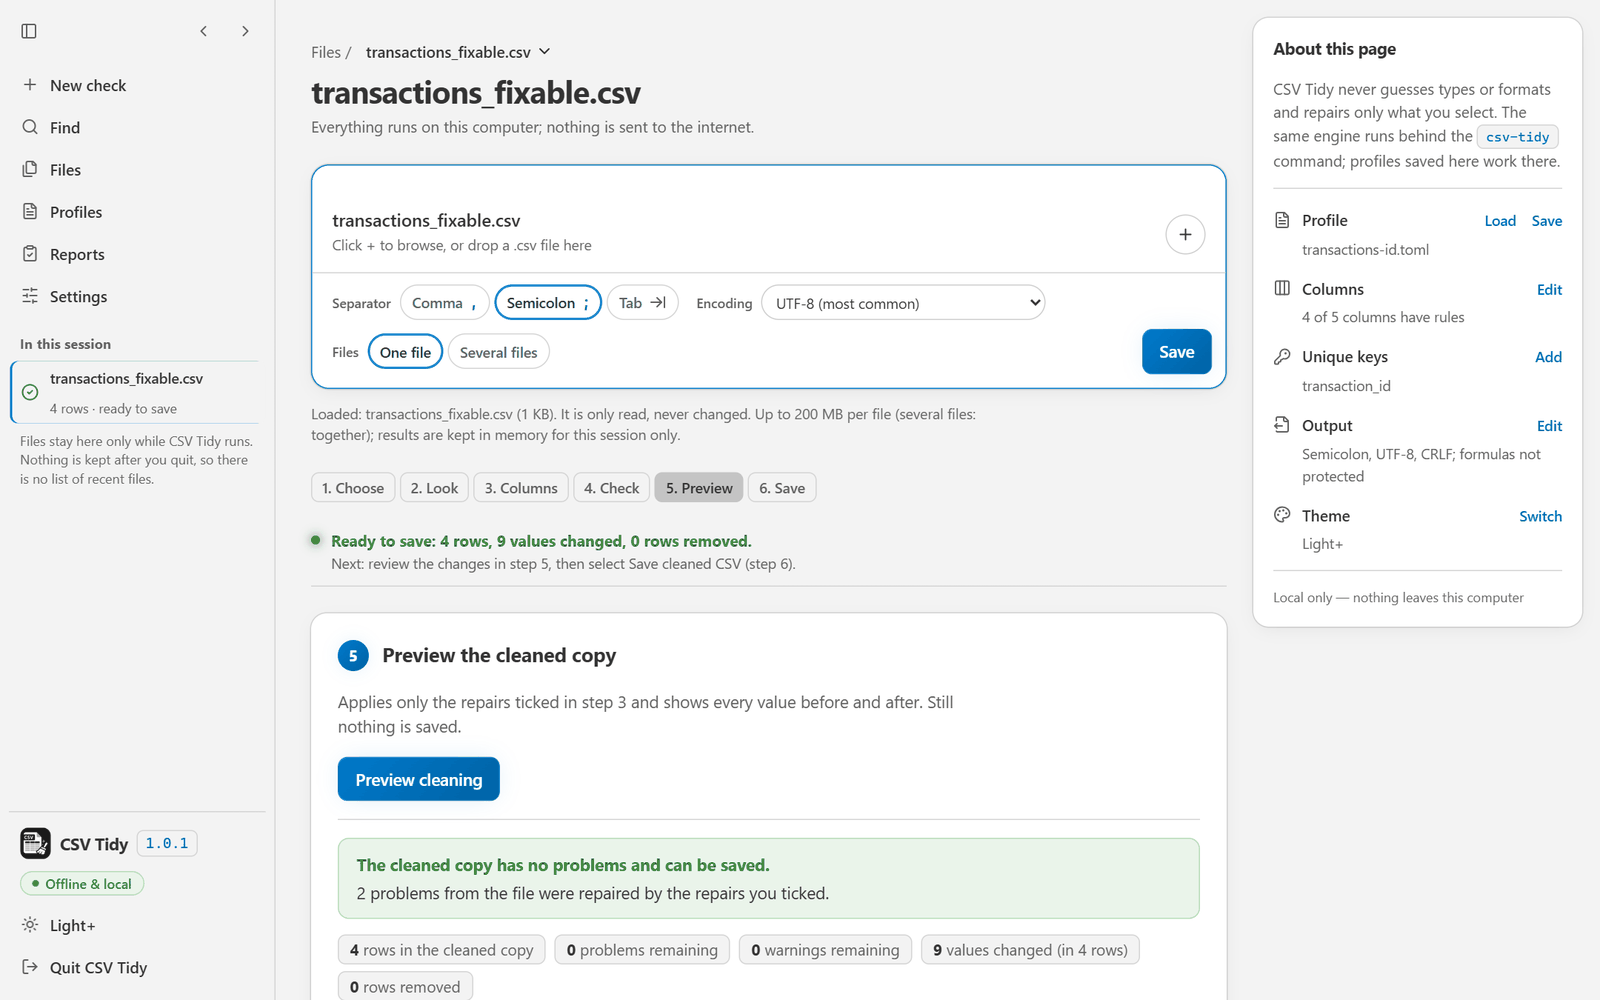
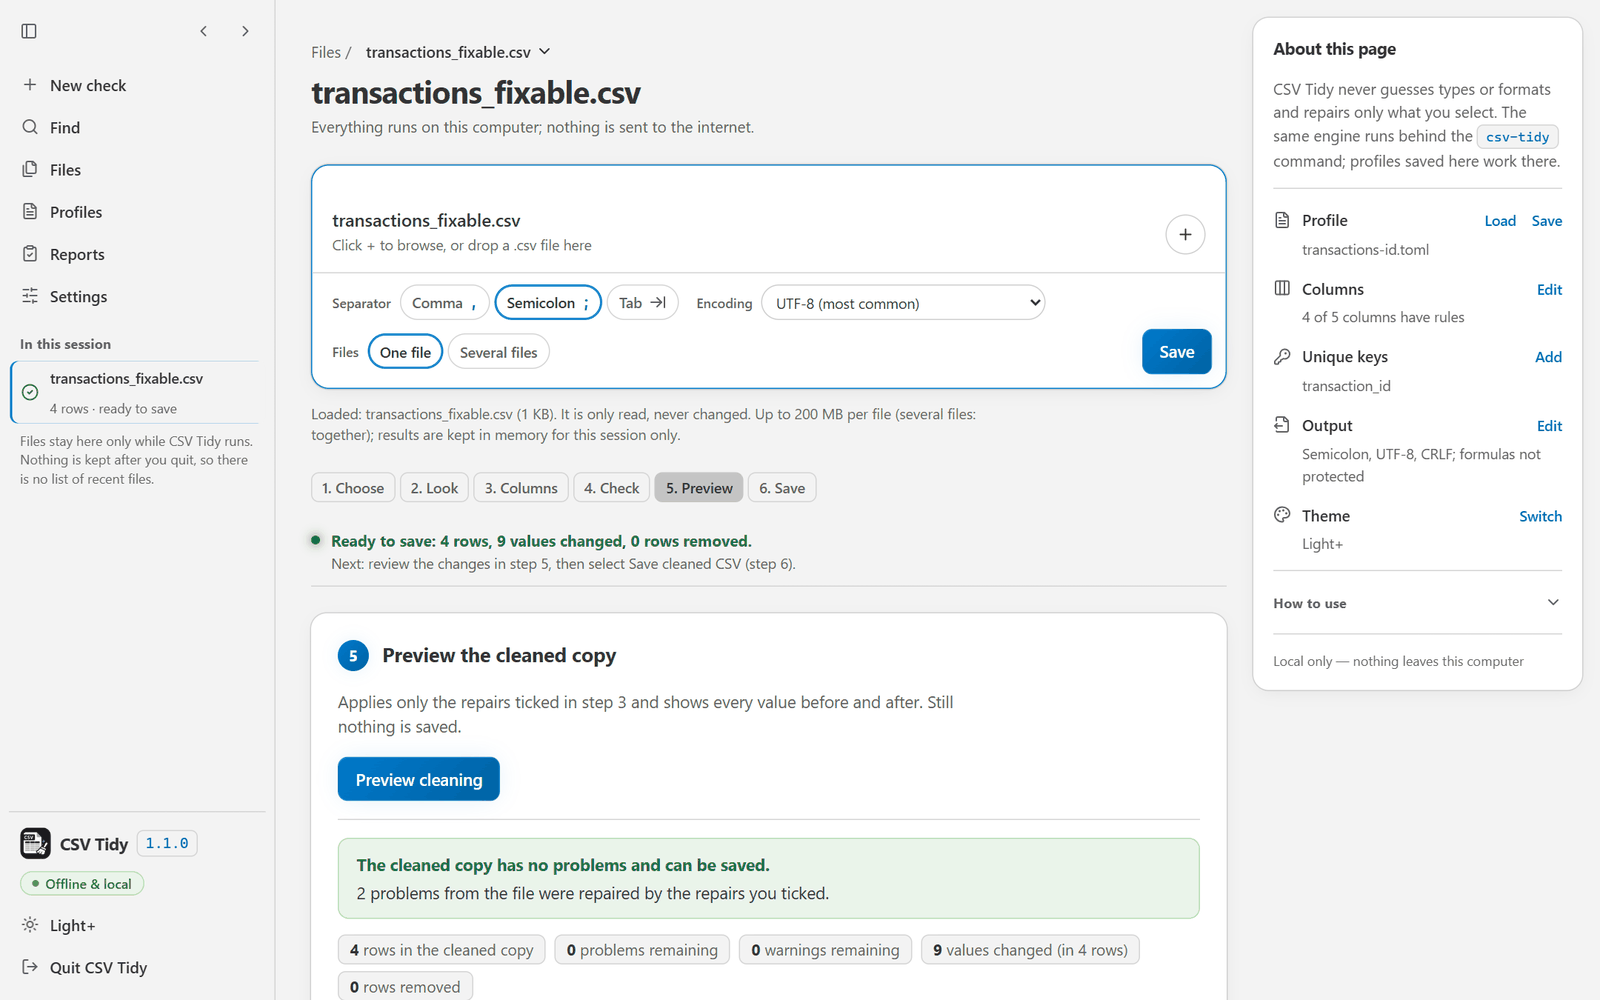
Prepare the CSV Tidy 1.1.0 release
Add a "How to use" guide to the side panel of the local interface: a
native disclosure, closed by default, with the six steps (each step name
shows its step like the step navigation) and a tip about reusing
profiles. Its open state is remembered in the browser where storage is
allowed. In wide windows the side panel scrolls on its own when it is
taller than the window.

Remove the unused background layer and its always-transparent tokens
(--nebula-1/2/3, --stars). Profiles, CLI, reports, and the Python API
are unchanged.

diff --git a/src/csv_tidy/ui_static/app.css b/src/csv_tidy/ui_static/app.css
@@ -11,10 +11,6 @@
   --canvas: #191919;
   --sidebar: #1f1f1f;
   --sidebar-line: #303030;
-  --nebula-1: transparent;
-  --nebula-2: transparent;
-  --nebula-3: transparent;
-  --stars: 0;
   --card: #1f1f1f;
   --subtle: #2b2b2b;
   --input: #313131;
@@ -61,10 +57,6 @@
   --canvas: #f3f3f3;
   --sidebar: #f3f3f3;
   --sidebar-line: var(--line);
-  --nebula-1: transparent;
-  --nebula-2: transparent;
-  --nebula-3: transparent;
-  --stars: 0;
   --card: #ffffff;
   --subtle: #f3f3f3;
   --input: #ffffff;
@@ -140,20 +132,6 @@ a { color: var(--accent-ink); }
 .skip:focus { top: 0.75rem; }
 :focus-visible { outline: 3px solid var(--focus); outline-offset: 2px; border-radius: 4px; }
 
-/* ---- background: soft nebula glows and a faint star field (dark theme only) ---- */
-.backdrop {
-  position: fixed; inset: 0; pointer-events: none; z-index: -1;
-  background:
-    radial-gradient(1px 1px at 12% 24%, rgba(255, 255, 255, var(--stars)) 50%, transparent 100%),
-    radial-gradient(1px 1px at 28% 68%, rgba(148, 163, 184, var(--stars)) 50%, transparent 100%),
-    radial-gradient(1.5px 1.5px at 64% 16%, rgba(165, 180, 252, var(--stars)) 50%, transparent 100%),
-    radial-gradient(1px 1px at 82% 52%, rgba(255, 255, 255, var(--stars)) 50%, transparent 100%),
-    radial-gradient(1.5px 1.5px at 43% 82%, rgba(56, 189, 248, var(--stars)) 50%, transparent 100%),
-    radial-gradient(circle at 15% 10%, var(--nebula-1) 0%, transparent 45%),
-    radial-gradient(circle at 85% 18%, var(--nebula-2) 0%, transparent 42%),
-    radial-gradient(circle at 50% 85%, var(--nebula-3) 0%, transparent 50%);
-}
-
 /* ---- application shell: side bar (nav), main column, side panel (aside) ---- */
 .app { --nav-w: 15.5rem; display: grid; grid-template-columns: var(--nav-w) minmax(0, 1fr); min-height: 100vh; }
 .sidebar {
@@ -221,6 +199,8 @@ button.session-row[aria-current="true"] { background: var(--subtle); box-shadow:
   grid-area: side; position: sticky; top: 1rem; margin-block: 1rem; display: grid; gap: 0.875rem;
   padding: 1rem 1.125rem 1.125rem; background: var(--card); box-shadow: var(--shadow);
   border-radius: var(--radius-card); color: var(--ink-2); font-size: 0.875rem;
+  /* Sticky, so it scrolls on its own when it is taller than the window (guide open, low windows). */
+  max-height: calc(100vh - 2rem); overflow-y: auto; overscroll-behavior: contain;
 }
 .panel-title { font-size: 0.9375rem; font-weight: 650; color: var(--ink); }
 .panel-rows { display: grid; gap: 0.75rem; margin: 0; padding-top: 0.875rem; border-top: 1px solid var(--line); }
@@ -232,6 +212,23 @@ button.session-row[aria-current="true"] { background: var(--subtle); box-shadow:
 .panel-value { grid-area: 2 / 1 / 3 / 3; padding-left: 1.625rem; color: var(--ink-2); font-size: 0.8125rem; overflow-wrap: anywhere; }
 .panel-actions { grid-area: 1 / 2; display: flex; gap: 0.875rem; }
 .panel-foot { padding-top: 0.875rem; border-top: 1px solid var(--line); color: var(--ink-3); font-size: 0.75rem; }
+/* "How to use": a native disclosure, closed by default; opening it grows the panel downward.
+   The summary is a caption row like .nav-heading; the whole row is the click target. */
+.howto { padding-top: 0.875rem; border-top: 1px solid var(--line); }
+.howto-summary {
+  display: flex; align-items: center; justify-content: space-between; gap: 0.5rem;
+  width: auto; min-height: 1.75rem; margin-inline: -0.375rem; padding: 0.125rem 0.375rem; border-radius: 6px;
+  list-style: none; cursor: pointer; font-size: 0.75rem; font-weight: 650; color: var(--ink-2); letter-spacing: 0.02em;
+}
+.howto[open] > .howto-summary { margin-bottom: 0; }
+.howto-summary::-webkit-details-marker { display: none; }
+.howto-summary:hover { background: var(--subtle); color: var(--ink); }
+.howto-chevron { flex: none; transition: transform 150ms ease; }
+.howto[open] .howto-chevron { transform: rotate(180deg); }
+@media (prefers-reduced-motion: reduce) { .howto-chevron { transition: none; } }
+.howto-steps { display: grid; gap: 0.375rem; margin: 0.5rem 0 0; padding-left: 1.25rem; font-size: 0.8125rem; }
+.howto-steps a { font-weight: 600; }
+.howto-tip { margin-top: 0.625rem; font-size: 0.8125rem; }
 
 /* Collapsed side bar (wide windows only): a rail of icons; the labels stay readable to screen readers. */
 @media (min-width: 45.0625rem) {
@@ -564,7 +561,7 @@ dialog p { color: var(--ink-2); }
 @media (max-width: 68.75rem) {
   .content { grid-template-columns: minmax(0, 1fr); grid-template-areas: "main" "side"; }
   .content { padding-right: 2rem; }
-  .side-panel { position: static; justify-self: center; width: 100%; max-width: 62rem; margin-block: 0 2rem; }
+  .side-panel { position: static; justify-self: center; width: 100%; max-width: 62rem; margin-block: 0 2rem; max-height: none; overflow-y: visible; }
 }
 /* Below 720 px the side bar is an overlay, opened from the bar at the top. */
 @media (max-width: 45rem) {

diff --git a/src/csv_tidy/ui_static/index.html b/src/csv_tidy/ui_static/index.html
@@ -11,7 +11,6 @@
 <script src="theme.js"></script>
 </head>
 <body>
-<div class="backdrop" aria-hidden="true"></div>
 <a class="skip" href="#main">Skip to the main column</a>
 
 <div class="app">
@@ -437,6 +436,18 @@
       <dd class="panel-actions"><button type="button" class="link-button" id="panel-theme" aria-label="Switch the color theme">Switch</button></dd>
     </div>
   </dl>
+  <details class="howto" id="howto">
+    <summary class="howto-summary">How to use<svg class="icon howto-chevron" viewBox="0 0 24 24" fill="none" stroke="currentColor" stroke-width="2" stroke-linecap="round" stroke-linejoin="round" aria-hidden="true"><path d="m6 9 6 6 6-6"/></svg></summary>
+    <ol class="howto-steps">
+      <li><a href="#step-1" data-step="1">Choose</a>: Drop a CSV file or press +.</li>
+      <li><a href="#step-2" data-step="2">Look</a>: Check the separator and encoding in the preview.</li>
+      <li><a href="#step-3" data-step="3">Columns</a>: Give the columns you care about a type and format.</li>
+      <li><a href="#step-4" data-step="4">Check</a>: See the problems with their row and column.</li>
+      <li><a href="#step-5" data-step="5">Preview</a>: See which values will change.</li>
+      <li><a href="#step-6" data-step="6">Save</a>: Download the clean copy and the report.</li>
+    </ol>
+    <p class="howto-tip">Save your rules as a profile to reuse them here or with the <code class="chip">csv-tidy</code> command.</p>
+  </details>
   <p class="panel-foot">Local only — nothing leaves this computer</p>
 </aside>
 

diff --git a/src/csv_tidy/ui_static/app.js b/src/csv_tidy/ui_static/app.js
@@ -1512,8 +1512,9 @@ function markStep(step) {
   applyFind(); /* the count names the rows of the step that is shown */
 }
 
-/* The step content sits right under the navigation, so a click shows it without jumping. */
-for (const link of document.querySelectorAll(".steps a")) {
+/* The step content sits right under the navigation, so a click shows it without jumping.
+   The step names in "How to use" (side panel) behave the same way. */
+for (const link of document.querySelectorAll(".steps a, .howto-steps a")) {
   link.addEventListener("click", (event) => {
     event.preventDefault();
     markStep(Number(link.dataset.step));
@@ -1956,6 +1957,20 @@ $("panel-columns-edit").addEventListener("click", () => showRules(null, false));
 $("panel-keys-add").addEventListener("click", () => showRules("key-columns", true));
 $("panel-output-edit").addEventListener("click", () => showRules("out-delimiter", true));
 $("panel-theme").addEventListener("click", () => $("theme-toggle").click());
+
+/* "How to use" is a native <details>: it opens and closes by itself; only the choice is kept. */
+try {
+  $("howto").open = window.localStorage.getItem("csv-tidy-howto") === "open";
+} catch (error) {
+  /* storage is blocked: the guide starts closed */
+}
+$("howto").addEventListener("toggle", () => {
+  try {
+    window.localStorage.setItem("csv-tidy-howto", $("howto").open ? "open" : "closed");
+  } catch (error) {
+    /* the choice is not remembered, which is fine */
+  }
+});
 
 function refreshLook() {
   const step = currentStep();

diff --git a/tests/integration/test_ui.py b/tests/integration/test_ui.py
@@ -311,6 +311,55 @@ def test_side_panel_rows_show_the_current_settings_with_an_action_each(ui):
     assert 'addEventListener("click", () => showRules("key-columns", true));' in script
 
 
+def test_side_panel_has_a_closed_how_to_use_guide(ui):
+    """AC-52: a native disclosure after the rows, six step links, a tip, remembered state."""
+    page = ui.request(ui.page_url.removeprefix(ui.base))[2].decode("utf-8")
+    script = ui.request("/app.js")[2].decode("utf-8")
+    css = ui.request("/app.css")[2].decode("utf-8")
+    panel = page[page.index('<aside class="side-panel"') : page.index("</aside>")]
+    # In the side panel, after the rows and before the "Local only" footer.
+    assert panel.index("</dl>") < panel.index('<details class="howto"') < panel.index("panel-foot")
+    parsed = _Elements()
+    parsed.feed(panel)
+    ((_, details, _),) = parsed.find("details", id="howto")
+    assert "open" not in details  # closed by default
+    summary = re.search(r'<summary class="howto-summary">(.*?)</summary>', panel, re.S).group(1)
+    assert re.sub(r"<svg.*?</svg>", "", summary, flags=re.S) == "How to use"
+    assert 'aria-hidden="true"' in summary and 'stroke="currentColor"' in summary
+    steps = re.findall(r'<li><a href="#step-(\d)" data-step="(\d)">(\w+)</a>: ([^<]+)</li>', panel)
+    assert [(href, step, name) for href, step, name, _ in steps] == [
+        (str(n), str(n), name)
+        for n, name in enumerate(("Choose", "Look", "Columns", "Check", "Preview", "Save"), 1)
+    ]
+    assert all(text.endswith(".") for *_, text in steps)
+    assert (
+        '<p class="howto-tip">Save your rules as a profile to reuse them here or with the '
+        '<code class="chip">csv-tidy</code> command.</p>'
+    ) in panel
+    # The step names use the handler of the step navigation; no navigation logic of their own.
+    assert 'document.querySelectorAll(".steps a, .howto-steps a")' in script
+    assert script.count("howto-steps") == 1
+    # The open state is read and written inside try/catch, under its own key.
+    assert re.search(
+        r'try \{\s*\$\("howto"\)\.open = window\.localStorage\.getItem\("csv-tidy-howto"\)', script
+    )
+    assert re.search(r'try \{\s*window\.localStorage\.setItem\("csv-tidy-howto"', script)
+    assert '$("howto").addEventListener("toggle"' in script
+    # No browser marker; the chevron turns when open, without animation under reduced motion.
+    assert ".howto-summary::-webkit-details-marker { display: none; }" in css
+    assert "list-style: none;" in css.split(".howto-summary {")[1].split("}")[0]
+    assert ".howto[open] .howto-chevron { transform: rotate(180deg); }" in css
+    assert "@media (prefers-reduced-motion: reduce) { .howto-chevron { transition: none; } }" in css
+
+
+def test_unused_background_layer_is_gone(ui):
+    page = ui.request(ui.page_url.removeprefix(ui.base))[2].decode("utf-8")
+    css = ui.request("/app.css")[2].decode("utf-8")
+    for token in ("--nebula-1", "--nebula-2", "--nebula-3", "--stars"):
+        assert token not in css
+    assert ".backdrop" not in css and 'class="backdrop"' not in page
+
+
 def test_page_structure_supports_keyboard_and_screen_reader_use(ui):
     """AC-50: references resolve, controls are named, and motion can be turned off."""
     page = ui.request(ui.page_url.removeprefix(ui.base))[2].decode("utf-8")

diff --git a/src/csv_tidy/__init__.py b/src/csv_tidy/__init__.py
@@ -8,7 +8,7 @@ The public API is the set of names in ``__all__`` (see docs/STABILITY.md), mainl
 See docs/ARCHITECTURE.md for the result model and exceptions.
 """
 
-__version__ = "1.0.1"
+__version__ = "1.1.0"
 
 from .api import CheckResult, CleanResult, ScanInfo, check_file, clean_file, export_clean
 from .batch import BatchInput, BatchResult, FileOutcome, run_batch, select_inputs

diff --git a/TEST_CASES.md b/TEST_CASES.md
@@ -59,6 +59,7 @@ counts, statuses, exit codes, and file contents, not internal calls.
 | AC-50 | Accessibility of the page: every ARIA and label reference resolves, every disclosure states `aria-expanded`, the landmarks `header`/`nav`/`main`/`aside`, icon-only buttons named, both dialogs labelled with the safe button focused first, a visible focus ring, reduced motion stopping every animation and transition | `integration/test_ui.py`: `test_page_structure_supports_keyboard_and_screen_reader_use`; browser checks below |
 | AC-51 | Contract of 1.0.0: `--profile`, `--output-profile`, `--output-profiles` and the hidden deprecated aliases (stderr warning; old and new together refused), `export_clean(output_profile=...)` and `run_batch(output_profiles=...)` with deprecated aliases (`DeprecationWarning`, `TypeError` for both), report `schema_version` 2 with `dry_run`, `output_csv`/`output_profile`, and a top-level `artifacts` list in clean reports, `output_field_too_large`, `CleanResult.ok`/`source_errors`/`source_warnings`/`output_warnings`, and the new exports | `integration/test_contract_1_0.py`: all tests; `integration/test_regressions.py`: `test_r3_expanded_output_beyond_field_limit_blocks_export`; `unit/test_stability_inventory.py` |
 | AC-35 | Batch: deterministic output names, collisions and unsafe paths stop before writing, a failing file does not affect others, single-file commands unchanged | `integration/test_batch.py`: `test_apply_writes_separate_deterministic_outputs_and_skips_blocked_files`, `test_output_name_collisions_stop_the_batch_before_writing`, `test_existing_outputs_and_inputs_are_protected`, `test_one_failed_write_does_not_undo_the_other_files`, `test_overrides_apply_to_every_file`, `test_library_entry_point_matches_the_command`, `test_single_file_commands_are_unchanged_and_help_lists_batch` |
+| AC-52 | **How to use** in the side panel: a native `<details>` after the rows and before the "Local only" footer, closed by default; opens and closes with Enter or Space; the open state is remembered under `csv-tidy-howto` (read and written inside try/catch, so blocked storage only means it starts closed); six step names (data-step 1–6, in order) that show their step like the step navigation; the tip about profiles; the chevron turns when open, without animation under reduced motion; the panel grows downward without changing its width or the main column at 1440, 1024, and 390 pixels. The unused background layer (`.backdrop`, `--nebula-1/2/3`, `--stars`) is gone | `integration/test_ui.py`: `test_side_panel_has_a_closed_how_to_use_guide`, `test_unused_background_layer_is_gone`; browser checks below |
 
 ## Regression tests
 
@@ -247,6 +248,26 @@ script errors. The mark's white document has 19:1 contrast on its black square; 
 itself has 17:1 against the Light+ side bar but only 1.15:1 against the dark side bar
 (#1F1F1F), where the document, not the square's outline, carries the mark, as with the full
 logo before.
+
+For **How to use** and the removed background layer (1.1.0, 2026-11-04), 192 checks passed
+in headless Chrome 156 in both themes at 1440, 1024, and 390 pixels, and the earlier
+walk-throughs (58 logo-mark, 421 side-bar sections, 156 shell, 218 input-card, 47 dark-color
+checks) passed again in the same browser. New checks: the guide is closed on a first visit
+and its summary row spans the panel without the browser's marker; Tab from **Switch**
+reaches it with a visible 3-pixel focus ring, Enter opens it, Space closes it; it stays open
+or closed after a reload (`csv-tidy-howto`); with storage blocked the page has no errors and
+the guide still opens; the chevron turns 180 degrees when open, at once with reduced motion;
+opening it leaves the panel's width and position and the main column unchanged, the panel
+only grows downward (at 1440 x 900 it scrolls on its own and its footer stays reachable);
+each of the six step names shows its step and marks it in the step navigation, with a file
+loaded; no horizontal scrolling, no requests to other hosts, no script errors. Contrast of
+the new color pairs (on the panel `#1F1F1F` / `#FFFFFF`; hover `#2B2B2B` / `#F3F3F3`): caption
+text and chevron 6.08:1 (dark) and 6.19:1 (light), on hover 8.82:1 and 11.39:1; step text
+and tip 6.08:1 and 6.19:1; step links 6.65:1 and 5.68:1; focus ring 3.64:1 and 3.35:1.
+Screenshots of both themes with and without text, before and after removing the background
+layer, have the same background colors; the only differences are anti-aliasing (text is now
+drawn with subpixel instead of grayscale smoothing, edges of rounded corners differ by at
+most 7 of 255).
 
 `csv-tidy update --check` was run once against the real GitHub API (release 0.3.0): the wheel
 and its digest were found and matched the published SHA-256. pip was shown to refuse a wheel

diff --git a/README.md b/README.md
@@ -81,7 +81,7 @@ Requires Python 3.11 or newer. CSV Tidy is **not published on PyPI**. Published 
 installation files (a wheel and a source distribution) are listed on the
 [GitHub Releases page](https://github.com/JudikaM/csv-tidy/releases); a downloaded wheel
 installs with `python -m pip install <path-to-wheel>` inside a virtual environment. This
-README describes version 1.0.1; changes made after a release are listed under "Unreleased"
+README describes version 1.1.0; changes made after a release are listed under "Unreleased"
 in the [changelog](CHANGELOG.md). You can also install from a source checkout:
 
 Windows PowerShell (calling the virtual environment's programs directly, so the
@@ -192,7 +192,7 @@ normalize = ["amount", "date"]
 ### 1. Check
 
 ```text
-CSV Tidy 1.0.1 - check
+CSV Tidy 1.1.0 - check
 Verdict: FAILED - 2 errors found in the source file.
 Source: examples\transactions_fixable.csv
 Profile: examples\profiles\transactions-id.toml
@@ -246,7 +246,7 @@ JSON for pipelines (stdout contains only JSON; status messages go to stderr):
 ### 2. Preview a clean (dry run is the default)
 
 ```text
-CSV Tidy 1.0.1 - clean (dry run, nothing written)
+CSV Tidy 1.1.0 - clean (dry run, nothing written)
 Verdict: READY TO EXPORT - no errors remain in the cleaned result; 2 source problems repaired.
 ...
 Transformations (applied in this order):
@@ -379,6 +379,9 @@ The page is laid out like a desktop application:
   **Profile** (Load, Save), how many **Columns** have rules (Edit), the **Unique keys**
   (Add), and the **Output** separator, encoding, line ending, and formula protection (Edit).
   Each action leads to the control in step 3; nothing is changed from the panel itself.
+  Under these rows, **How to use** opens a short guide: the six steps in one line each (each
+  step name leads to that step) and a tip about reusing profiles. It is closed until you
+  open it, and the page remembers your choice.
 
 The steps:
 
@@ -441,7 +444,7 @@ step-by-step guide for first-time users is in
 ```
 
 ```text
-CSV Tidy 1.0.1 - batch clean (dry run, nothing written)
+CSV Tidy 1.1.0 - batch clean (dry run, nothing written)
 Verdict: 2 of 4 files need attention (2 with data errors).
 Profile: examples\profiles\transactions-id.toml
 

diff --git a/docs/CONFIGURATION.md b/docs/CONFIGURATION.md
@@ -401,7 +401,13 @@ from a server bound to `127.0.0.1` and opens it in the default browser.
   **Add** opens "More settings" at the combined-key list), **Output** (separator, encoding,
   and line ending of the cleaned copy, and in how many columns formulas are protected;
   **Edit** opens "More settings" at the output separator), and **Theme** (**Switch**). The
-  actions lead to the controls of step 3; the panel changes nothing itself.
+  actions lead to the controls of step 3; the panel changes nothing itself. Under the rows,
+  **How to use** is a short guide that is closed until it is opened (a native disclosure,
+  so the keyboard and screen readers get its open or closed state): the six steps in one
+  line each, every step name leading to its step like the step navigation, and a tip that
+  saved profiles also work with the `csv-tidy` command. Whether it is open is remembered
+  like the theme (where the browser allows storage). Opening it makes the panel longer, not
+  wider; in wide windows the panel scrolls on its own when it is taller than the window.
 - **Accessibility.** One `h1`; the landmarks `nav`, `main`, `aside`, and `header` (narrow
   windows); a skip link to the main column as the first Tab stop; a name for every control,
   including icon-only buttons; `aria-expanded` and `aria-controls` on the buttons that show

diff --git a/CHANGELOG.md b/CHANGELOG.md
@@ -6,6 +6,27 @@ All notable changes are documented here. The format follows
 
 ## [Unreleased]
 
+## [1.1.0] - 2026-11-04
+
+A short guide in the local interface.
+
+**Upgrade notes (from 1.0.1).** Profiles, CLI, reports, and the Python API are unchanged.
+
+### Added
+
+- Interface: **How to use** at the bottom of the side panel, a short guide that is closed
+  until it is opened: the six steps in one line each, every step name leading to its step,
+  and a tip that profiles saved on the page also work with the `csv-tidy` command. It is a
+  native disclosure that works with the keyboard and screen readers, and whether it is open
+  is remembered in the browser (`csv-tidy-howto`, where the browser allows storage). In wide
+  windows the side panel now scrolls on its own when it is taller than the window.
+
+### Removed
+
+- Interface: the unused background layer (the `backdrop` element and its style rule) and its
+  style tokens `--nebula-1`, `--nebula-2`, `--nebula-3`, and `--stars`. They were transparent
+  in both themes, so the page looks the same.
+
 ## [1.0.1] - 2026-11-04
 
 A small clean-up of the local interface.

diff --git a/docs/USER_TESTING.md b/docs/USER_TESTING.md
@@ -89,6 +89,8 @@ Things to watch without asking:
 - Does the participant notice the status line above the steps, and read the "Next:" line?
 - Do they use the one button in the file card (**Check**, **Preview cleaning**, **Save**), the
   step buttons, or the side bar to move on? Do they find the side panel on the right?
+- Do first-time users open **How to use** at the bottom of the side panel, and when? Does it
+  help them finish the task (for example, do they follow a step link), or do they ignore it?
 - Do they understand that **In this session** is forgotten after Quit?
 - Do the words "separator", "encoding", "profile", "record", and "file line" make sense to
   them? Which word do they use instead?
